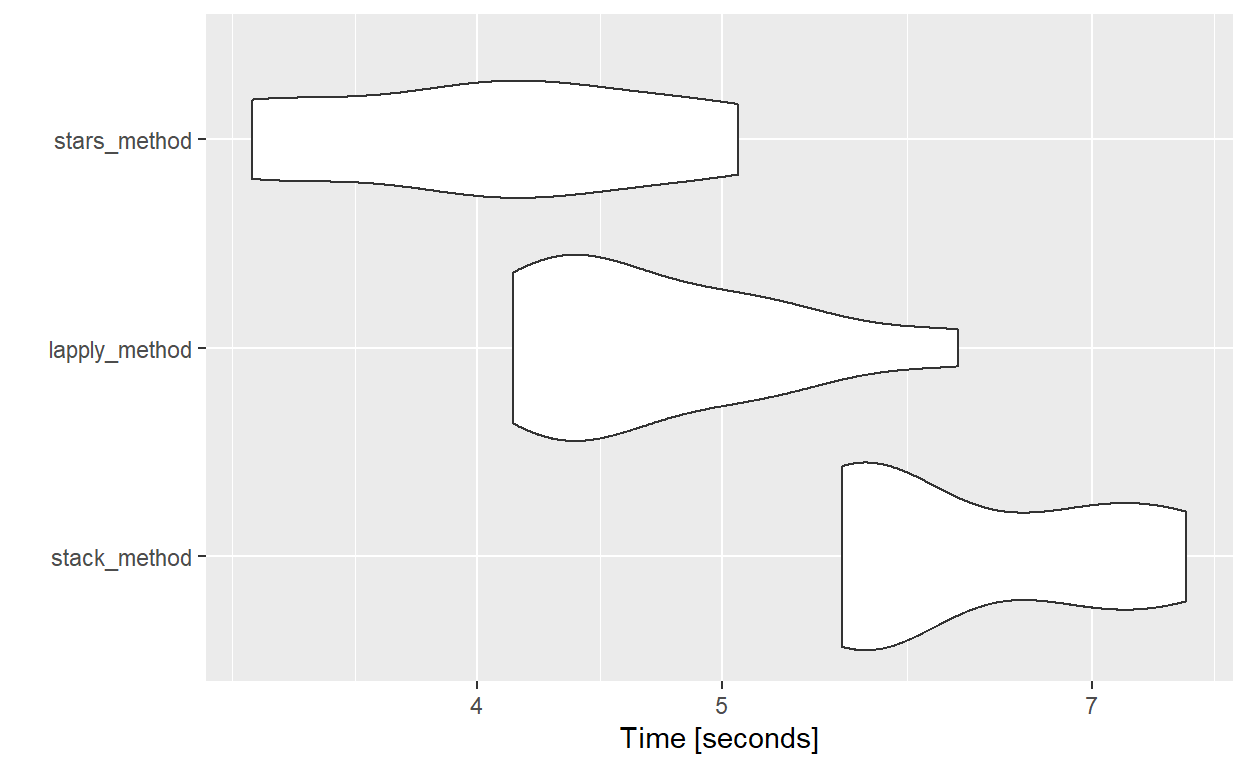
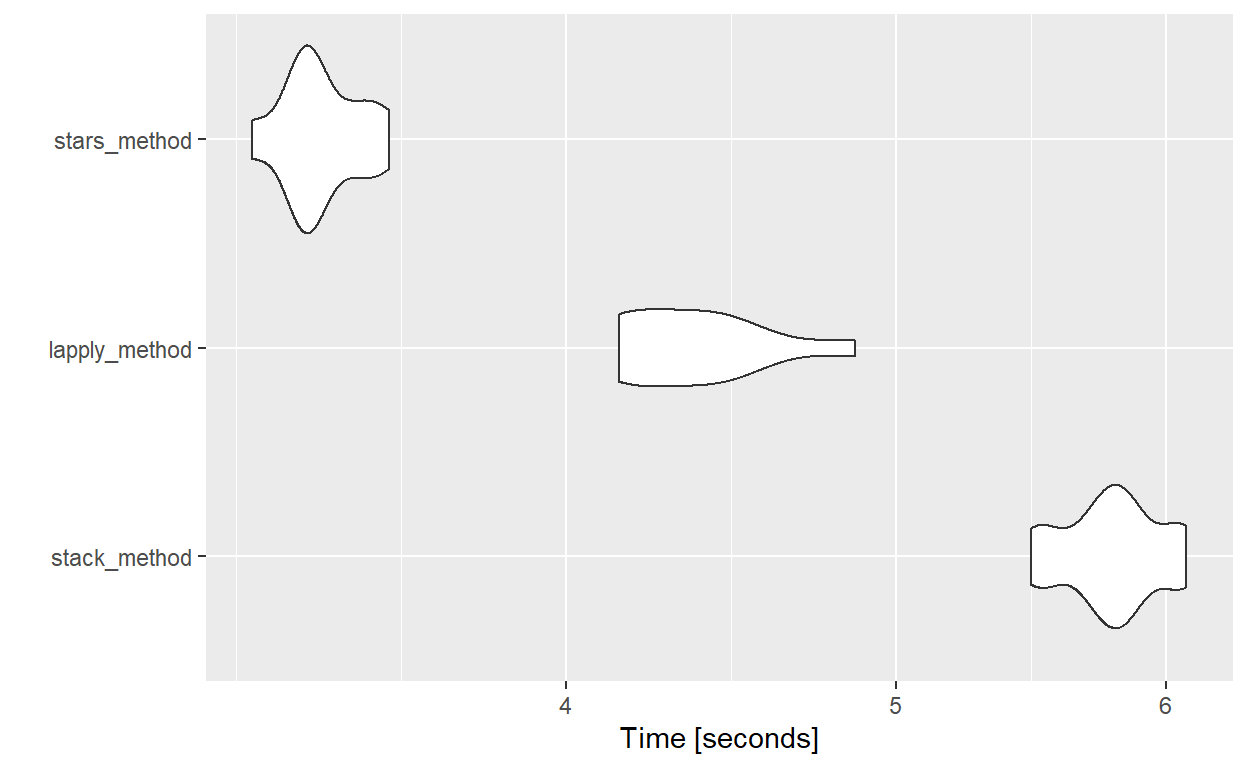
First complete draft of raster performance blogpost, need to change some text, layout and formatting and add a preview image

diff --git a/_posts/2021-08-12-reading-in-multiple-raster-performance/reading-in-multiple-raster-performance.html b/_posts/2021-08-12-reading-in-multiple-raster-performance/reading-in-multiple-raster-performance.html
@@ -1483,74 +1483,37 @@ code span.wa { color: #5e5e5e; font-style: italic; } /* Warning */
 <p>Let’s get started with the method I used in my project, and then we’ll try some improvements from there!</p>
 <h1 id="a-look-at-the-files-to-process">A look at the files to process</h1>
 <div class="layout-chunk" data-layout="l-body">
-<pre><code>[1] 300</code></pre>
+
 </div>
 <p>A pretty chunky folder - let’s have a look at the different methods of reading in multiply raster files.</p>
 <h1 id="the-methods">The methods</h1>
+<p>The first method is the one I used during my project, which is stack(). The reason I went for stack() is that it’s probably the most concise method of stacking a large number of rasters, because you read the raster files straight into a stack. But… I had a feeling this was maybe taking more time than I’d like.</p>
 <div class="layout-chunk" data-layout="l-body">
-<pre><code>class      : RasterStack 
-dimensions : 1300, 700, 910000, 3  (nrow, ncol, ncell, nlayers)
-resolution : 1000, 1000  (x, y)
-extent     : 0, 7e+05, 0, 1300000  (xmin, xmax, ymin, ymax)
-crs        : +proj=tmerc +lat_0=49 +lon_0=-2 +k=0.9996012717 +x_0=400000 +y_0=-100000 +a=6377563.396 +rf=299.324975315035 +units=m +no_defs 
-names      : r_crop_1750_pc_1km, r_crop_1760_pc_1km, r_crop_1770_pc_1km 
-min values :               0.01,               0.01,               0.01 
-max values :               0.99,               0.99,               0.99 </code></pre>
+<div class="sourceCode">
+<pre class="sourceCode r"><code class="sourceCode r"><span class='fu'><a href='https://rdrr.io/r/utils/stack.html'>stack</a></span><span class='op'>(</span><span class='va'>l_files</span><span class='op'>[</span><span class='fl'>1</span><span class='op'>:</span><span class='fl'>3</span><span class='op'>]</span><span class='op'>)</span>
+</code></pre>
+</div>
 </div>
 <p>A method I was curious about after reading <a href="https://csgillespie.github.io/efficientR/programming.html#the-apply-family">Chapter 3 of Efficient R programming</a> by Colin Gillespie and Robin Lovelace, is whether maybe using lapply to individually reading in rasters into a list, and then stacking them is faster than reading in the rasters into a stack straight away.</p>
-<p>So let’s try that method, which looks like this:</p>
+<p>Of course, that is multiple functions, so to make it work within microbenchmark, I’m defining it into a single function here. Normally I probably wouldn’t bother doing that.</p>
 <div class="layout-chunk" data-layout="l-body">
-<pre><code>[[1]]
-class      : RasterLayer 
-dimensions : 1300, 700, 910000  (nrow, ncol, ncell)
-resolution : 1000, 1000  (x, y)
-extent     : 0, 7e+05, 0, 1300000  (xmin, xmax, ymin, ymax)
-crs        : +proj=tmerc +lat_0=49 +lon_0=-2 +k=0.9996012717 +x_0=400000 +y_0=-100000 +a=6377563.396 +rf=299.324975315035 +units=m +no_defs 
-source     : //nerclactdb.adceh.ceh.ac.uk/Projects/PROJECTS1/SPEED_Metal/Atmos_inputs/Land_Use/BELUC_outputs/run8/output_agg_1km/r_crop_1750_pc_1km.tif 
-names      : r_crop_1750_pc_1km 
-values     : 0.01, 0.99  (min, max)
-
-
-[[2]]
-class      : RasterLayer 
-dimensions : 1300, 700, 910000  (nrow, ncol, ncell)
-resolution : 1000, 1000  (x, y)
-extent     : 0, 7e+05, 0, 1300000  (xmin, xmax, ymin, ymax)
-crs        : +proj=tmerc +lat_0=49 +lon_0=-2 +k=0.9996012717 +x_0=400000 +y_0=-100000 +a=6377563.396 +rf=299.324975315035 +units=m +no_defs 
-source     : //nerclactdb.adceh.ceh.ac.uk/Projects/PROJECTS1/SPEED_Metal/Atmos_inputs/Land_Use/BELUC_outputs/run8/output_agg_1km/r_crop_1760_pc_1km.tif 
-names      : r_crop_1760_pc_1km 
-values     : 0.01, 0.99  (min, max)
-
-
-[[3]]
-class      : RasterLayer 
-dimensions : 1300, 700, 910000  (nrow, ncol, ncell)
-resolution : 1000, 1000  (x, y)
-extent     : 0, 7e+05, 0, 1300000  (xmin, xmax, ymin, ymax)
-crs        : +proj=tmerc +lat_0=49 +lon_0=-2 +k=0.9996012717 +x_0=400000 +y_0=-100000 +a=6377563.396 +rf=299.324975315035 +units=m +no_defs 
-source     : //nerclactdb.adceh.ceh.ac.uk/Projects/PROJECTS1/SPEED_Metal/Atmos_inputs/Land_Use/BELUC_outputs/run8/output_agg_1km/r_crop_1770_pc_1km.tif 
-names      : r_crop_1770_pc_1km 
-values     : 0.01, 0.99  (min, max)</code></pre>
+<div class="sourceCode">
+<pre class="sourceCode r"><code class="sourceCode r"><span class='va'>func_apply_n_stack</span> <span class='op'>&lt;-</span> <span class='kw'>function</span><span class='op'>(</span><span class='va'>files_to_read</span><span class='op'>)</span><span class='op'>{</span>
+<span class='co'>#reading the rasters in individually, into a list object</span>
+<span class='va'>l_rasters</span> <span class='op'>&lt;-</span> <span class='fu'><a href='https://rdrr.io/r/base/lapply.html'>lapply</a></span><span class='op'>(</span><span class='va'>files_to_read</span><span class='op'>[</span><span class='fl'>1</span><span class='op'>:</span><span class='fl'>3</span><span class='op'>]</span>, <span class='va'>raster</span><span class='op'>)</span>
+<span class='co'>#then stack the read in list object into a single stack</span>
+<span class='va'>s_rasters</span> <span class='op'>&lt;-</span> <span class='fu'><a href='https://rdrr.io/r/utils/stack.html'>stack</a></span><span class='op'>(</span><span class='va'>l_rasters</span><span class='op'>)</span>
+<span class='kw'><a href='https://rdrr.io/r/base/function.html'>return</a></span><span class='op'>(</span><span class='va'>s_rasters</span><span class='op'>)</span>
+<span class='op'>}</span>
+</code></pre>
+</div>
 </div>
 <p>Another package I’ve been curious about for a while, but haven’t found an excuse to use yet, is <a href="https://r-spatial.github.io/stars/">stars</a>. Now I have no idea how this works in the background, so I have no idea if this will be faster, but that’s the fun of the experiment.</p>
 <div class="layout-chunk" data-layout="l-body">
-<pre><code>stars object with 2 dimensions and 3 attributes
-attribute(s):
-                        Min. 1st Qu. Median      Mean 3rd Qu. Max.
-r_crop_1750_pc_1km.tif  0.01    0.07   0.23 0.2432115    0.38 0.99
-r_crop_1760_pc_1km.tif  0.01    0.07   0.23 0.2434995    0.38 0.99
-r_crop_1770_pc_1km.tif  0.01    0.07   0.23 0.2438948    0.38 0.99
-                          NA&#39;s
-r_crop_1750_pc_1km.tif  707217
-r_crop_1760_pc_1km.tif  706998
-r_crop_1770_pc_1km.tif  706873
-dimension(s):
-  from   to  offset delta                       refsys point values
-x    1  700       0  1000 +proj=tmerc +lat_0=49 +lo... FALSE   NULL
-y    1 1300 1300000 -1000 +proj=tmerc +lat_0=49 +lo... FALSE   NULL
-  x/y
-x [x]
-y [y]</code></pre>
+<div class="sourceCode">
+<pre class="sourceCode r"><code class="sourceCode r"><span class='fu'>read_stars</span><span class='op'>(</span><span class='va'>l_files</span><span class='op'>[</span><span class='fl'>1</span><span class='op'>:</span><span class='fl'>3</span><span class='op'>]</span><span class='op'>)</span>
+</code></pre>
+</div>
 </div>
 <h1 id="running-the-benchmark">Running the benchmark</h1>
 <p>Now I’ve given a sample of the 3 methods, let’s run the benchmark and see which is fastest.</p>
@@ -1559,129 +1522,45 @@ y [y]</code></pre>
 <thead>
 <tr class="header">
 <th style="text-align: left;">expr</th>
-<th style="text-align: right;">time</th>
+<th style="text-align: right;">min</th>
+<th style="text-align: right;">lq</th>
+<th style="text-align: right;">mean</th>
+<th style="text-align: right;">median</th>
+<th style="text-align: right;">uq</th>
+<th style="text-align: right;">max</th>
+<th style="text-align: right;">neval</th>
 </tr>
 </thead>
 <tbody>
 <tr class="odd">
-<td style="text-align: left;">lapply_method</td>
-<td style="text-align: right;">6197967301</td>
-</tr>
-<tr class="even">
-<td style="text-align: left;">stars_method</td>
-<td style="text-align: right;">3282143201</td>
-</tr>
-<tr class="odd">
 <td style="text-align: left;">stack_method</td>
-<td style="text-align: right;">5575167601</td>
-</tr>
-<tr class="even">
-<td style="text-align: left;">stack_method</td>
-<td style="text-align: right;">5725858701</td>
-</tr>
-<tr class="odd">
-<td style="text-align: left;">lapply_method</td>
-<td style="text-align: right;">4294378401</td>
+<td style="text-align: right;">5.477365</td>
+<td style="text-align: right;">5.673873</td>
+<td style="text-align: right;">5.785959</td>
+<td style="text-align: right;">5.780988</td>
+<td style="text-align: right;">5.870214</td>
+<td style="text-align: right;">6.082241</td>
+<td style="text-align: right;">10</td>
 </tr>
 <tr class="even">
 <td style="text-align: left;">lapply_method</td>
-<td style="text-align: right;">4219017402</td>
-</tr>
-<tr class="odd">
-<td style="text-align: left;">lapply_method</td>
-<td style="text-align: right;">4439714701</td>
-</tr>
-<tr class="even">
-<td style="text-align: left;">lapply_method</td>
-<td style="text-align: right;">4133391101</td>
-</tr>
-<tr class="odd">
-<td style="text-align: left;">stars_method</td>
-<td style="text-align: right;">3258915201</td>
-</tr>
-<tr class="even">
-<td style="text-align: left;">stack_method</td>
-<td style="text-align: right;">5618879301</td>
+<td style="text-align: right;">4.145744</td>
+<td style="text-align: right;">4.157930</td>
+<td style="text-align: right;">4.361981</td>
+<td style="text-align: right;">4.346606</td>
+<td style="text-align: right;">4.467269</td>
+<td style="text-align: right;">4.862596</td>
+<td style="text-align: right;">10</td>
 </tr>
 <tr class="odd">
 <td style="text-align: left;">stars_method</td>
-<td style="text-align: right;">3267944001</td>
-</tr>
-<tr class="even">
-<td style="text-align: left;">stack_method</td>
-<td style="text-align: right;">5843097401</td>
-</tr>
-<tr class="odd">
-<td style="text-align: left;">stack_method</td>
-<td style="text-align: right;">5735718201</td>
-</tr>
-<tr class="even">
-<td style="text-align: left;">stack_method</td>
-<td style="text-align: right;">5610885401</td>
-</tr>
-<tr class="odd">
-<td style="text-align: left;">lapply_method</td>
-<td style="text-align: right;">4354303701</td>
-</tr>
-<tr class="even">
-<td style="text-align: left;">stars_method</td>
-<td style="text-align: right;">5071548900</td>
-</tr>
-<tr class="odd">
-<td style="text-align: left;">stack_method</td>
-<td style="text-align: right;">7052678101</td>
-</tr>
-<tr class="even">
-<td style="text-align: left;">lapply_method</td>
-<td style="text-align: right;">5315994501</td>
-</tr>
-<tr class="odd">
-<td style="text-align: left;">stars_method</td>
-<td style="text-align: right;">4607615901</td>
-</tr>
-<tr class="even">
-<td style="text-align: left;">stack_method</td>
-<td style="text-align: right;">7468117401</td>
-</tr>
-<tr class="odd">
-<td style="text-align: left;">stars_method</td>
-<td style="text-align: right;">4089055501</td>
-</tr>
-<tr class="even">
-<td style="text-align: left;">stars_method</td>
-<td style="text-align: right;">4113425301</td>
-</tr>
-<tr class="odd">
-<td style="text-align: left;">lapply_method</td>
-<td style="text-align: right;">5164724501</td>
-</tr>
-<tr class="even">
-<td style="text-align: left;">stack_method</td>
-<td style="text-align: right;">6809496901</td>
-</tr>
-<tr class="odd">
-<td style="text-align: left;">stars_method</td>
-<td style="text-align: right;">4012487101</td>
-</tr>
-<tr class="even">
-<td style="text-align: left;">lapply_method</td>
-<td style="text-align: right;">4930895501</td>
-</tr>
-<tr class="odd">
-<td style="text-align: left;">stars_method</td>
-<td style="text-align: right;">4080462101</td>
-</tr>
-<tr class="even">
-<td style="text-align: left;">stack_method</td>
-<td style="text-align: right;">7629687801</td>
-</tr>
-<tr class="odd">
-<td style="text-align: left;">stars_method</td>
-<td style="text-align: right;">5044629801</td>
-</tr>
-<tr class="even">
-<td style="text-align: left;">lapply_method</td>
-<td style="text-align: right;">4542904102</td>
+<td style="text-align: right;">3.234831</td>
+<td style="text-align: right;">3.342583</td>
+<td style="text-align: right;">3.388981</td>
+<td style="text-align: right;">3.367211</td>
+<td style="text-align: right;">3.458902</td>
+<td style="text-align: right;">3.547657</td>
+<td style="text-align: right;">10</td>
 </tr>
 </tbody>
 </table>
@@ -1692,7 +1571,7 @@ y [y]</code></pre>
 <p><img src="reading-in-multiple-raster-performance_files/figure-html5/benchmark_plot-1.png" width="624" /></p>
 </div>
 <p>So lapply(x, raster) and read_stars() are definitely faster than stack() on average, but read_stars() and lapply(x, raster) do overlap a wee bit, so I could probably get away with using lapply until I learn to use stars properly… or is that another excuse I don’t need to put off learning stars?</p>
-<div class="sourceCode" id="cb5"><pre class="sourceCode r distill-force-highlighting-css"><code class="sourceCode r"></code></pre></div>
+<div class="sourceCode" id="cb1"><pre class="sourceCode r distill-force-highlighting-css"><code class="sourceCode r"></code></pre></div>
 <!--radix_placeholder_article_footer-->
 <!--/radix_placeholder_article_footer-->
 </div>
